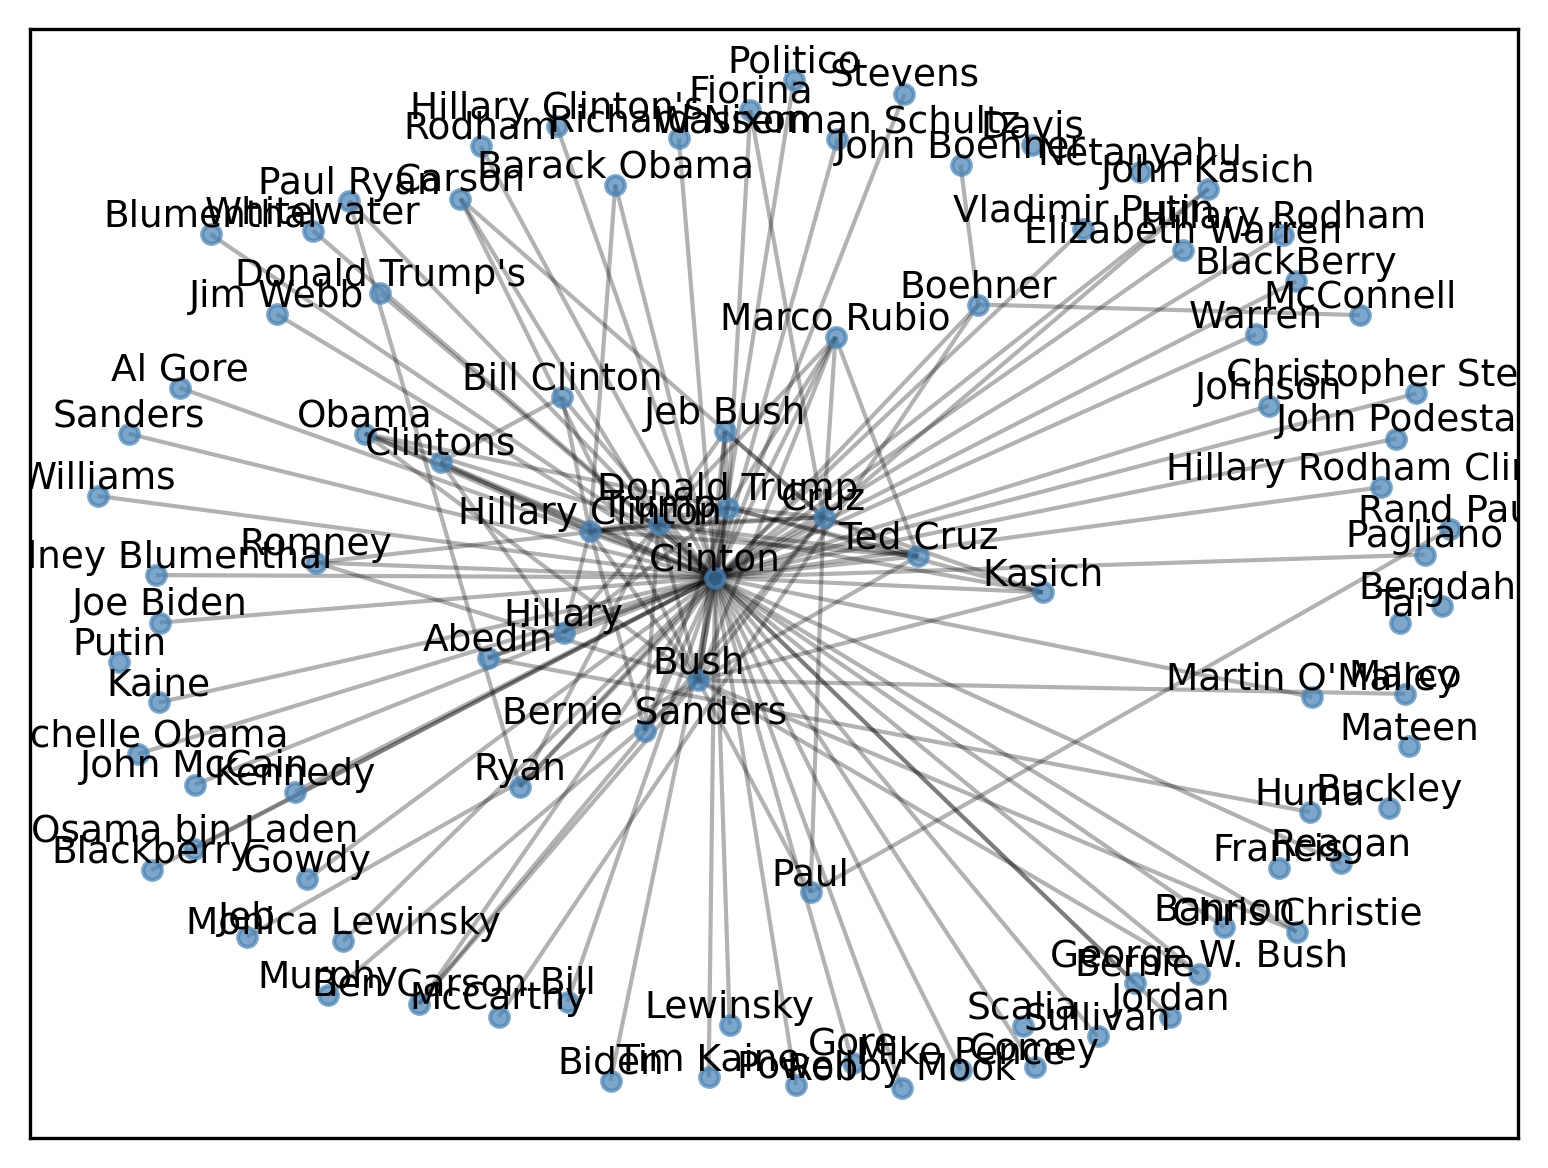
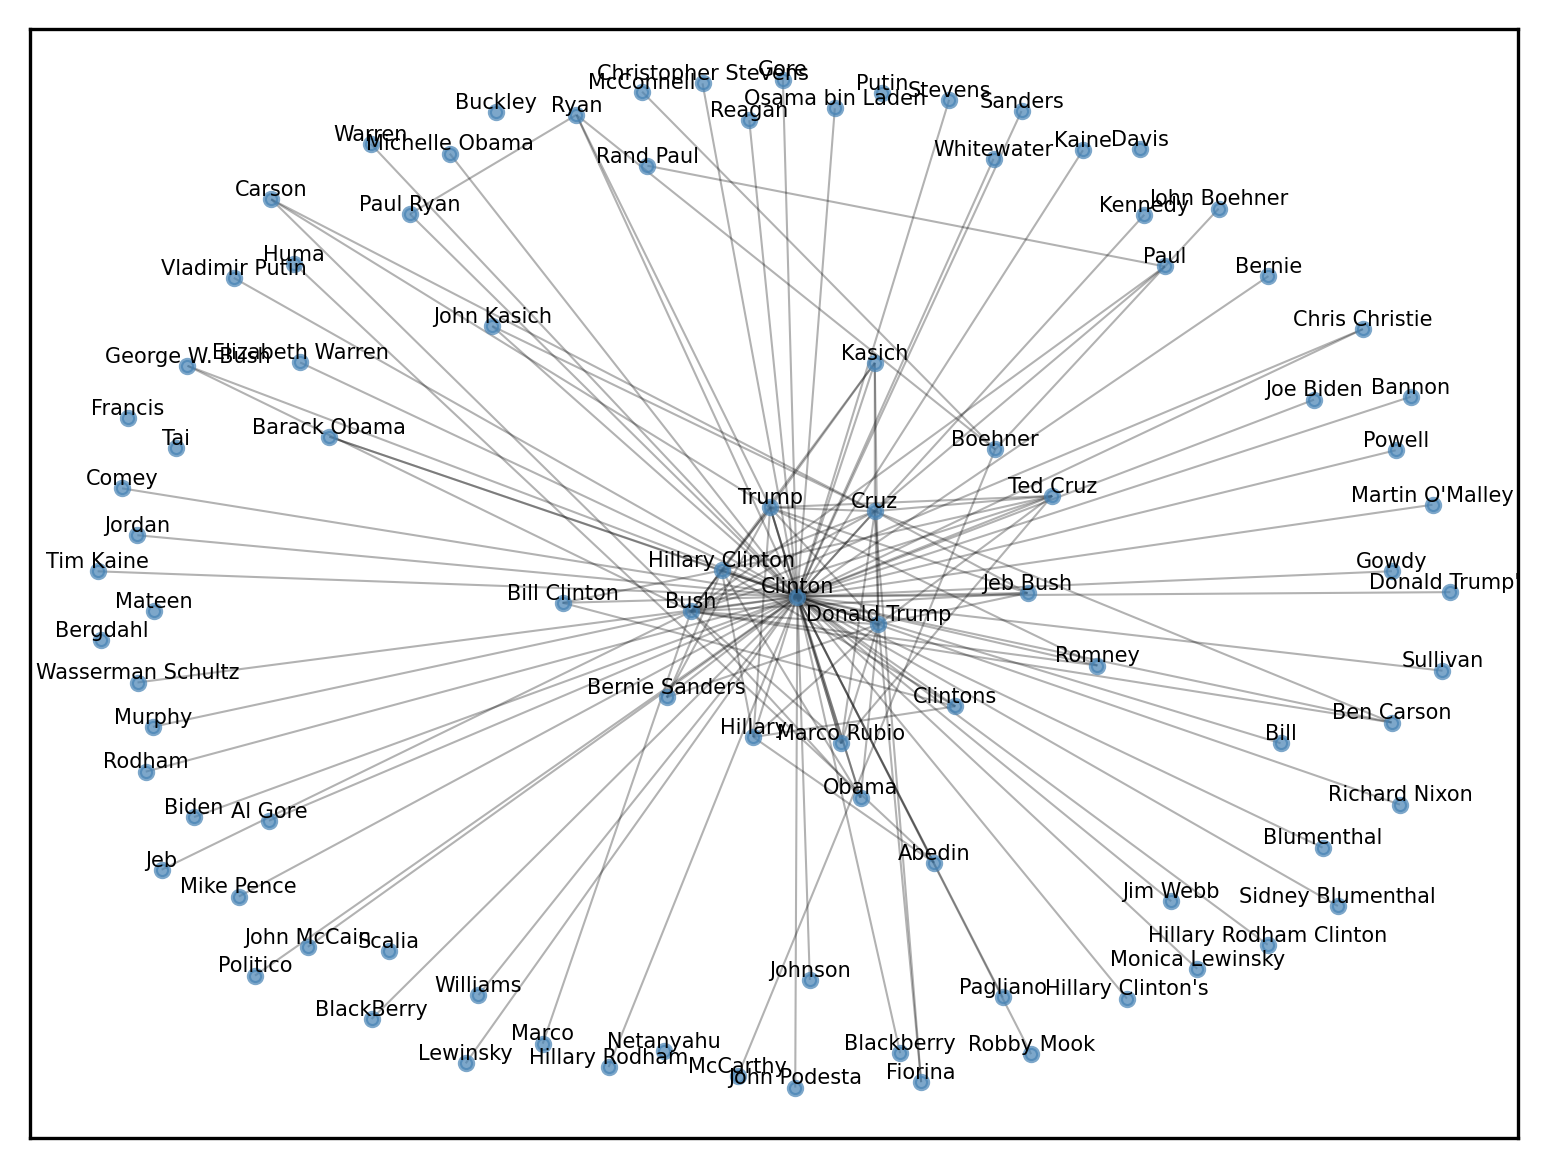
fix network graph for matplotlib

Changed region(s): [[0.031, 0.0308, 0.9922, 0.9555]]

diff --git a/assignments/4-network/network_nd.py b/assignments/4-network/network_nd.py
@@ -117,9 +117,9 @@ class Network_Analysis:
         # defining layout as spring layout, with increased distance between nodes
         spring_layout = nx.spring_layout(graph, k=math.sqrt(graph.order()))
         # drawing nodes, edges and labels
-        nx.draw_networkx_nodes(graph, spring_layout, node_size=20, node_color="steelblue", alpha = 0.7)
-        nx.draw_networkx_edges(graph, spring_layout, alpha = 0.3)
-        nx.draw_networkx_labels(graph, spring_layout, font_size=9, verticalalignment="bottom")
+        nx.draw_networkx_nodes(graph, spring_layout, node_size=10, node_color="steelblue", alpha=0.7)
+        nx.draw_networkx_edges(graph, spring_layout, width=0.5, alpha=0.3)
+        nx.draw_networkx_labels(graph, spring_layout, font_size=5, verticalalignment="bottom")
         
         # save the plot
         plt.savefig(f"viz/network_{self.data_name}_{self.min_edgeweight}.png", dpi=300, bbox_inches="tight")
